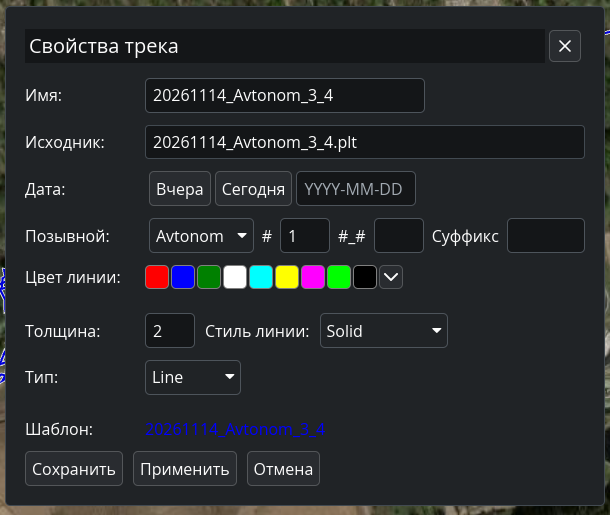
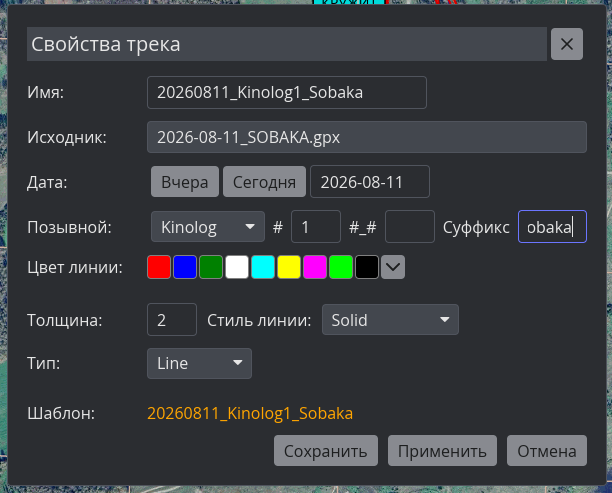
Docs update

diff --git a/docs/user-guide.md b/docs/user-guide.md
@@ -178,6 +178,8 @@ C:\Users\<user>\AppData\Local\foxy\esri\z\x\y.jpg`
 
 Окно вызывается кнопкой в списке треков. или из контекстного ПКМ. При этом отображаются все точки трека на карте. Shift-клик выбирает диапазон точек, Ctrl-клик добавляет точки к выделению.
 
+Выделение в списке синхронизировано с инструментом "Выбор точек трека (D)". Если выделить точку/точки этим инструментом на карте и открыть "Список точек трека", то список центрируется на первой по порядку точке из выделенных.
+
 - Кнопка "В центр" центрирует выбранную точку (или первую в списке из множества выбранных) и отмечает ее знаком прицела
 
 - Кнопка "Разделить" режет трек на сегменты по выбранной точке (или первой в списке из множества выбранных). 
@@ -195,8 +197,6 @@ C:\Users\<user>\AppData\Local\foxy\esri\z\x\y.jpg`
 Вызывается кнопкой в списке точек и из контекстного ПКМ и  отображает основные свойства точки, а так же при создании новой точки любым способом. Допускает ввод любых кириллических символов, включая "С". 
 
 Следует отметить, что поле "Координаты" допускает ввод в трех основных форматах и в формате ИМЯ_УЗЛА_СЕТКИ + Азимут на него + Удаление от него (напр. G8 120 134, а при вводе только имени узла точка будет выставлена строго на нем).
-
-- Кнопка "Вложение" - пока заглушка
 
 - Кнопка "Применить" закрывает окно с применением внесенных изменений.
 
